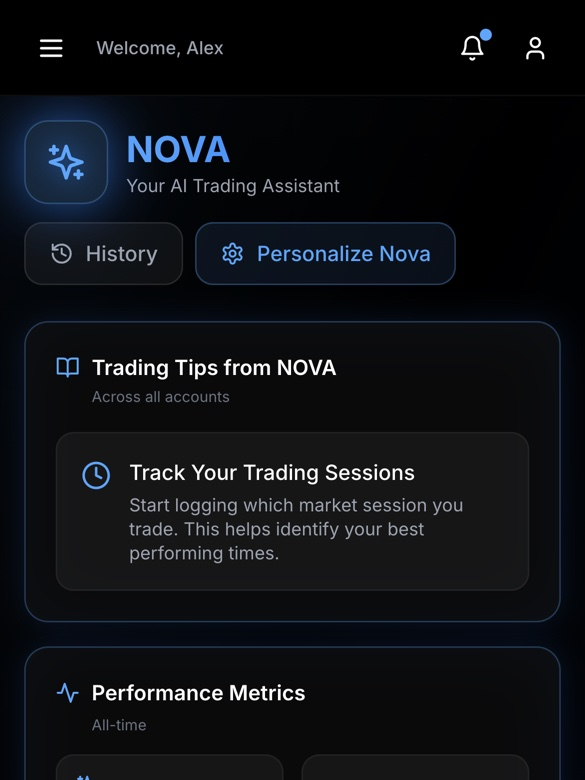
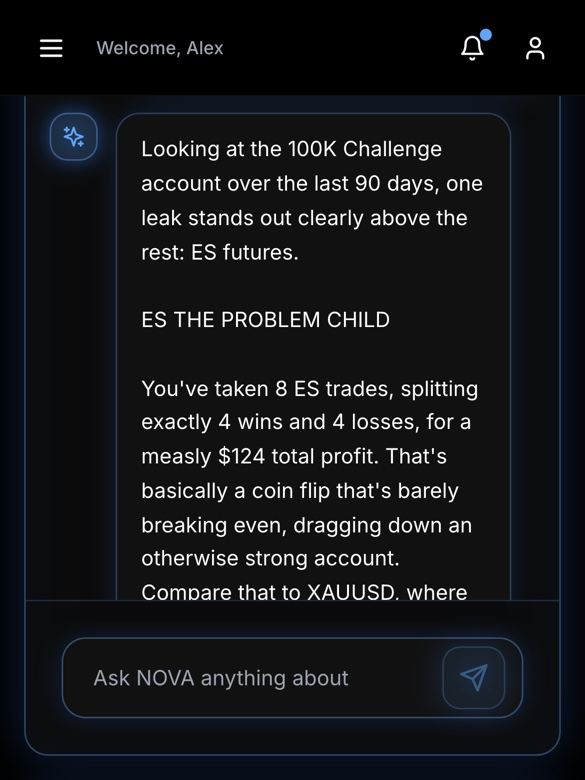
Rebuild the landing page for phones without moving desktop
Most of this page's traffic is a phone. At 390px it was 11,691px - fourteen
screens - and it read as one long column of the same block: heading, text,
picture, heading, text, picture. TradeZella's phone page is longer than ours
(15,069px), so length was never the problem. The difference is that theirs
moves sideways: groups of cards become decks you swipe, and the page stops
being a single column.

Every change is phone-only, through max-sm: variants or by changing only the
base value under an existing sm: one. Proven rather than assumed: the
layout geometry of 45 elements was recorded at 640, 768, 1024 and 1440px
before any change and again after, and page height and every position match
at all four widths.

THE REVIEWS were nine cards stacked into a 1,700px column, more than two full
screens of identical shapes directly before the price. They are a swipe row
now, each card 82% of the screen so the next is always waiting at the edge,
bleeding to the screen edges, with a quiet "Swipe for more" under it. 207px.

NOVA'S SCREENSHOT showed the wrong thing on phones. The crop was anchored on
the word "Nova", which matched the page header, so a phone visitor saw "NOVA,
Your AI Trading Assistant" and a tips panel - never the question or the
answer, which is the only thing that section exists to show. Re-shot on the
answer itself. The first re-shoot was unusable for a better reason: capture
runs had asked the same question so many times that Nova asked whether
[…]

diff --git a/src/pages/Sales.tsx b/src/pages/Sales.tsx
@@ -514,7 +514,7 @@ export default function Sales() {
           to five. It is now a screenshot of the running app. See ProductShot
           for why that trade - sharpness for honesty - is the right way round.
         */}
-        <div className="relative max-w-4xl mx-auto px-5 sm:px-8 pb-20 sm:pb-28">
+        <div className="relative max-w-4xl mx-auto px-5 sm:px-8 pb-12 sm:pb-28">
           <ProductShot
             src="/product/dashboard.jpg"
             alt="The TradeX dashboard: account balance, NOVA Score, win rate, profit factor and a panel showing how closely the trader followed their own plan."
@@ -553,7 +553,7 @@ export default function Sales() {
         rather than accusing: anybody who has done it knows they did not
         decide to do it.
       */}
-      <div className="relative border-t border-white/[0.06] py-16 sm:py-24">
+      <div className="relative border-t border-white/[0.06] py-11 sm:py-24">
         <div className="max-w-3xl mx-auto px-5 sm:px-8">
           <SectionHeader align="center" eyebrow="The real variable" title="The hard part was never the chart">
             Ask anyone who has traded for a year and they can tell you exactly
@@ -570,7 +570,9 @@ export default function Sales() {
             because inventing them would be the same mistake the hero's
             drawn dashboard made, and the shape is the whole argument.
           */}
-          <ol className="mt-12 sm:mt-14 grid grid-cols-1 sm:grid-cols-3 gap-3 sm:gap-4">
+          <ol className="mt-9 sm:mt-14 grid grid-cols-1 sm:grid-cols-3 gap-0 sm:gap-4
+            max-sm:rounded-2xl max-sm:border max-sm:border-white/[0.07] max-sm:bg-brand-surface
+            max-sm:divide-y max-sm:divide-white/[0.07] max-sm:overflow-hidden">
             {[
               {
                 step: 'The trade you planned',
@@ -593,17 +595,17 @@ export default function Sales() {
             ].map((s, n) => (
               <li
                 key={s.step}
-                className="rounded-2xl border border-white/[0.07] bg-brand-surface p-5 sm:p-6 flex flex-col"
+                className="sm:rounded-2xl sm:border sm:border-white/[0.07] sm:bg-brand-surface px-4 py-4 sm:p-6 flex flex-col"
               >
                 <span className="text-[11px] tabular-nums text-gray-600">0{n + 1}</span>
-                <p className="mt-2 text-[15px] sm:text-base font-semibold tracking-[-0.01em] text-white">
+                <p className="mt-1 sm:mt-2 text-[15px] sm:text-base font-semibold tracking-[-0.01em] text-white">
                   {s.step}
                 </p>
-                <p className="mt-2 text-[13px] sm:text-[13.5px] leading-relaxed text-gray-400 flex-1">
+                <p className="mt-1 sm:mt-2 text-[13px] sm:text-[13.5px] leading-relaxed text-gray-400 flex-1">
                   {s.line}
                 </p>
                 {/* Position size, growing. The only thing these three bars say. */}
-                <span className="mt-5 block h-1 rounded-full bg-white/[0.06] overflow-hidden">
+                <span className="mt-3 sm:mt-5 block h-1 rounded-full bg-white/[0.06] overflow-hidden">
                   <span className={`block h-full rounded-full ${s.width} ${s.tone}`} />
                 </span>
                 <span className="mt-2 text-[10px] uppercase tracking-[0.14em] text-gray-600">
@@ -669,7 +671,7 @@ export default function Sales() {
         where it belongs: the pattern is what you are left holding after the
         other two have run.
       */}
-      <div className="relative border-t border-white/[0.06] py-16 sm:py-24">
+      <div className="relative border-t border-white/[0.06] py-11 sm:py-24">
         <div className="max-w-4xl mx-auto px-5 sm:px-8">
           <SectionHeader
             eyebrow="How it works"
@@ -720,7 +722,7 @@ export default function Sales() {
         Every journal shows P&L. This is the one thing no competitor leads
         with, so it gets a section to itself rather than a card in a grid.
       */}
-      <div className="relative border-t border-white/[0.06] py-16 sm:py-24">
+      <div className="relative border-t border-white/[0.06] py-11 sm:py-24">
         <div className="max-w-4xl mx-auto px-5 sm:px-8">
           <SectionHeader
             eyebrow="Psychology"
@@ -754,7 +756,7 @@ export default function Sales() {
         makes Nova worth paying for is that she has read every entry, so the
         demonstration is an answer no generic chatbot could give.
       */}
-      <div className="relative border-t border-white/[0.06] py-16 sm:py-24">
+      <div className="relative border-t border-white/[0.06] py-11 sm:py-24">
         <div className="max-w-5xl mx-auto px-5 sm:px-8">
           {/*
             Two columns, because three sections in a row were the same shape.
@@ -832,7 +834,7 @@ export default function Sales() {
         now, at the end of the product run, which is where somebody who wants
         more of it has just finished looking.
       */}
-      <div className="relative border-t border-white/[0.06] py-16 sm:py-20">
+      <div className="relative border-t border-white/[0.06] py-11 sm:py-20">
         <div className="max-w-5xl mx-auto px-5 sm:px-8">
           <SectionHeader
             eyebrow="Afterwards"
@@ -1057,18 +1059,39 @@ export default function Sales() {
         every single entry is five stars reads worse than one where they are
         the exception.
       */}
-      <div className="relative border-t border-white/[0.06] py-14 sm:py-20">
+      <div className="relative border-t border-white/[0.06] py-11 sm:py-20">
         <div className="max-w-5xl mx-auto px-5 sm:px-8">
           <p className="text-center text-[9.5px] sm:text-[10px] tracking-[0.16em] uppercase text-gray-600">
             From early users
           </p>
 
-          <div className="mt-9 sm:mt-11 columns-1 sm:columns-2 lg:columns-3 gap-4 sm:gap-5 [column-fill:_balance]">
+          {/*
+            ON A PHONE, A ROW YOU SWIPE - NOT NINE CARDS STACKED.
+
+            Stacked, nine quotes were 1,700px of identical cards at 390px wide:
+            more than two full screens of the same shape, sitting directly
+            before the price. TradeZella's phone page runs this exact kind of
+            content as a horizontal deck, and so does every review section
+            built for thumbs - the vertical page keeps moving down, and the
+            proof moves sideways underneath it.
+
+            Each card is 82% of the screen so the next one is always visibly
+            waiting at the edge, which is the whole cue to swipe; the row
+            bleeds to the screen edges so it reads as a strip rather than a
+            box. The quotes keep their natural lengths and the row aligns to
+            the top, so a one-liner is not stretched to match a paragraph.
+
+            From sm up this is untouched: the same three-column masonry.
+          */}
+          <div className="mt-7 sm:mt-11 -mx-5 px-5 sm:mx-0 sm:px-0
+            flex items-start gap-3 overflow-x-auto snap-x snap-mandatory scroll-px-5
+            [scrollbar-width:none] [&::-webkit-scrollbar]:hidden
+            sm:block sm:overflow-visible sm:columns-2 lg:columns-3 sm:gap-5 [column-fill:_balance]">
             {TESTIMONIALS.map((t) => (
               <figure
                 key={t.name}
-                className="mb-4 sm:mb-5 break-inside-avoid rounded-2xl border border-white/[0.07]
-                  bg-gradient-to-b from-white/[0.03] to-transparent p-5"
+                className="w-[82%] flex-shrink-0 snap-start sm:w-auto sm:mb-5 break-inside-avoid rounded-2xl
+                  border border-white/[0.07] bg-gradient-to-b from-white/[0.03] to-transparent p-5"
               >
                 {t.stars && (
                   <div className="flex gap-0.5 mb-3" aria-label="Five out of five">
@@ -1086,6 +1109,9 @@ export default function Sales() {
               </figure>
             ))}
           </div>
+          <p className="sm:hidden mt-4 text-center text-[11.5px] text-gray-600">
+            Swipe for more &rarr;
+          </p>
         </div>
       </div>
 
@@ -1105,7 +1131,7 @@ export default function Sales() {
         The gold-* classes this section used were undefined and rendered as
         nothing, which is why the old feature headings had no colour at all.
       */}
-      <div className="relative border-t border-white/[0.06] py-16 sm:py-24">
+      <div className="relative border-t border-white/[0.06] py-11 sm:py-24">
         <div className="max-w-xl mx-auto px-5 sm:px-8">
           <SectionHeader
             eyebrow="Pricing"
@@ -1191,30 +1217,43 @@ export default function Sales() {
             identical on every plan, so saying it three times inside the
             columns made the columns look different when they are not.
           */}
-          <div className="grid gap-3 sm:grid-cols-3 sm:gap-4">
+          {/*
+            On a phone the tiers are rows, not cards.
+
+            Three cards stacked at 390px were ~560px for what is a three-line
+            comparison - one number differs between them. As rows, the name and
+            the account count sit on the left and the price on the right, which
+            is the shape a phone reader scans a price list in, and the whole
+            block fits on one screen with the trial timeline under it. From sm
+            up these are the three centred cards, unchanged.
+          */}
+          <div className="grid gap-2.5 sm:grid-cols-3 sm:gap-4">
             {TIERS.map((tier) => (
               <div
                 key={tier.name}
-                className={`relative rounded-2xl border p-5 text-center ${
+                className={`relative rounded-2xl border px-4 py-3.5 sm:p-5 sm:text-center
+                  max-sm:grid max-sm:grid-cols-[1fr_auto] max-sm:items-center max-sm:gap-x-4 ${
                   tier.featured
                     ? 'border-brand-blue/40 bg-brand-blue/[0.05]'
                     : 'border-white/[0.07] bg-brand-surface'
                 }`}
               >
                 {tier.featured && (
-                  <span className="absolute -top-2.5 left-1/2 -translate-x-1/2 rounded-full
+                  <span className="absolute -top-2.5 left-4 sm:left-1/2 sm:-translate-x-1/2 rounded-full
                     bg-brand-blue px-2.5 py-0.5 text-[10px] font-medium text-white whitespace-nowrap">
                     Most popular
                   </span>
                 )}
-                <p className="text-[11px] uppercase tracking-[0.14em] text-gray-500">{tier.name}</p>
-                <p className="mt-2.5 flex items-baseline justify-center gap-1">
+                <p className="text-[11px] uppercase tracking-[0.14em] text-gray-500 max-sm:col-start-1 max-sm:row-start-1">{tier.name}</p>
+                <p className="sm:mt-2.5 flex items-baseline sm:justify-center gap-1
+                  max-sm:col-start-2 max-sm:row-start-1 max-sm:row-span-2">
                   <span className="text-[26px] sm:text-[28px] font-semibold tracking-[-0.03em] text-white tabular-nums">
                     {tier.price}
                   </span>
                   <span className="text-[12px] text-gray-500">/mo</span>
                 </p>
-                <p className="mt-3 pt-3 border-t border-white/[0.07] text-[12.5px] text-gray-400">
+                <p className="mt-1 sm:mt-3 sm:pt-3 sm:border-t sm:border-white/[0.07] text-[12.5px] text-gray-400
+                  max-sm:col-start-1 max-sm:row-start-2">
                   {tier.syncedLabel}
                 </p>
               </div>
@@ -1305,7 +1344,7 @@ export default function Sales() {
         JavaScript, it is keyboard accessible for free, and the answer is in
         the DOM for search engines whether or not anyone opens it.
       */}
-      <div className="relative border-t border-white/[0.06] py-16 sm:py-24">
+      <div className="relative border-t border-white/[0.06] py-11 sm:py-24">
         <div className="max-w-2xl mx-auto px-5 sm:px-8">
           <SectionHeader
             eyebrow="Before you ask"
@@ -1342,7 +1381,7 @@ export default function Sales() {
         claimed an outcome for people we cannot point to. The guarantee does
         the same job and is checkable.
       */}
-      <div className="relative border-t border-white/[0.06] py-16 sm:py-24">
+      <div className="relative border-t border-white/[0.06] py-11 sm:py-24">
         <div className="max-w-xl mx-auto px-5 sm:px-8 text-center">
           {/*
             He appears once, here, and not anywhere above.

diff --git a/src/components/shared/CookieConsent.tsx b/src/components/shared/CookieConsent.tsx
@@ -100,7 +100,7 @@ export default function CookieConsent() {
         would bury the Accept button instead and consent has to stay
         answerable.
       */
-      className="fixed inset-x-0 bottom-0 z-50 p-3 sm:p-5"
+      className="fixed inset-x-0 bottom-0 z-50 p-2 sm:p-5"
     >
       {/*
         Slides up and fades in, 320ms on a gentle ease-out. Small on purpose:
@@ -112,24 +112,32 @@ export default function CookieConsent() {
       */}
       <div
         className={`mx-auto max-w-3xl rounded-2xl border border-white/10 bg-brand-surface/95
-          backdrop-blur-md p-4 sm:p-5 shadow-2xl
+          backdrop-blur-md px-3.5 py-3 sm:p-5 shadow-2xl
           transition-all duration-[320ms] ease-out
           motion-reduce:transition-none motion-reduce:transform-none motion-reduce:opacity-100
           ${shown ? 'opacity-100 translate-y-0' : 'opacity-0 translate-y-6'}`}
       >
         <div className="sm:flex sm:items-center sm:gap-6">
-          <p className="text-[13px] sm:text-sm text-gray-400 leading-relaxed">
+          {/*
+            Shorter on a phone, not weaker. At 390px the banner was ~170px tall
+            and sat across the hero's product screenshot - the first image
+            every visitor from Instagram sees. The disclosure, the "nothing runs
+            until you say yes" and the privacy link all stay; only the clause
+            about changing your mind later is desktop-only, and the policy it
+            links to says the same. Both buttons keep full-size tap targets.
+          */}
+          <p className="text-[12.5px] sm:text-sm text-gray-400 leading-relaxed">
             We use cookies to understand how the site is used. Nothing runs until
-            you say yes, and you can change your mind any time.{' '}
+            you say yes<span className="max-sm:hidden">, and you can change your mind any time</span>.{' '}
             <Link to="/privacy" className="text-gray-300 underline underline-offset-2 hover:text-white">
               Privacy Policy
             </Link>
           </p>
-          <div className="mt-4 sm:mt-0 flex gap-2.5 sm:flex-shrink-0">
+          <div className="mt-2.5 sm:mt-0 flex gap-2.5 sm:flex-shrink-0">
             <button
               type="button"
               onClick={decline}
-              className="flex-1 sm:flex-none px-5 py-2.5 rounded-full border border-white/15
+              className="flex-1 sm:flex-none px-5 py-2 sm:py-2.5 rounded-full border border-white/15
                 text-[13px] font-medium text-gray-300 hover:bg-white/5 transition-colors
                 focus-visible:outline-none focus-visible:ring-1 focus-visible:ring-white/40"
             >
@@ -138,7 +146,7 @@ export default function CookieConsent() {
             <button
               type="button"
               onClick={accept}
-              className="flex-1 sm:flex-none px-5 py-2.5 rounded-full bg-white text-black
+              className="flex-1 sm:flex-none px-5 py-2 sm:py-2.5 rounded-full bg-white text-black
                 text-[13px] font-medium hover:bg-gray-200 transition-colors
                 focus-visible:outline-none focus-visible:ring-1 focus-visible:ring-white/40"
             >

diff --git a/src/components/sales/SwipeDeck.tsx b/src/components/sales/SwipeDeck.tsx
@@ -50,12 +50,56 @@ export default function SwipeDeck({
     Equal height stops the rail and everything below it jumping as panels
     change. Turn it off when the panels are images of different aspect
     ratios, where matching heights leaves one of them letterboxed.
+
+    Never applied below sm. On a phone the shorter panel was stretched to the
+    taller one's height, and at 390px wide that meant a card that was mostly
+    empty space around three rows of dots. The track still takes the tallest
+    panel's height either way, so the rail underneath does not jump - all
+    that changes is whether the slack sits inside the card or below it, and
+    below it is the version that does not look unfinished.
   */
   equalHeight?: boolean;
 }) {
   const [index, setIndex] = useState(0);
   const trackRef = useRef<HTMLDivElement | null>(null);
   const animatingTo = useRef<number | null>(null);
+
+  /*
+    ON A PHONE, THE TRACK IS AS TALL AS THE PANEL YOU ARE LOOKING AT.
+
+    A flex row is as tall as its tallest child, so a short panel next to a
+    tall one sat above a band of empty space - ~180px of nothing between the
+    psychology card and the rail at 390px, which on a phone is a fifth of the
+    screen. Stretching the short card to fill it was worse: a card that was
+    mostly empty.
+
+    So below sm the track's height follows the active panel and animates
+    between them as you swipe. The rail moves with it, smoothly, which is the
+    cost - and on a phone it is a better cost than a fifth of the screen
+    standing empty. From sm up nothing here applies: no inline height, and the
+    layout is exactly what it was.
+  */
+  const [heights, setHeights] = useState<number[]>([]);
+  const [isPhone, setIsPhone] = useState(false);
+
+  useEffect(() => {
+    const mq = window.matchMedia('(max-width: 639px)');
+    const onChange = () => setIsPhone(mq.matches);
+    onChange();
+    mq.addEventListener('change', onChange);
+    return () => mq.removeEventListener('change', onChange);
+  }, []);
+
+  useEffect(() => {
+    const el = trackRef.current;
+    if (!el || typeof ResizeObserver === 'undefined') return;
+    const panels = [...el.querySelectorAll<HTMLElement>('[data-panel]')];
+    const measure = () => setHeights(panels.map((p) => p.offsetHeight));
+    measure();
+    const ro = new ResizeObserver(measure);
+    panels.forEach((p) => ro.observe(p));
+    return () => ro.disconnect();
+  }, [panels.length]);
 
   useEffect(() => {
     const el = trackRef.current;
@@ -106,7 +150,9 @@ export default function SwipeDeck({
         ref={trackRef}
         className={`flex gap-6 overflow-x-auto snap-x snap-mandatory scroll-smooth motion-reduce:scroll-auto
           [scrollbar-width:none] [-ms-overflow-style:none] [&::-webkit-scrollbar]:hidden
+          max-sm:items-start max-sm:overflow-y-hidden max-sm:transition-[height] max-sm:duration-300 max-sm:ease-out
           ${equalHeight ? '' : 'items-start'}`}
+        style={isPhone && heights[index] ? { height: heights[index] } : undefined}
       >
         {spacer}
         {panels.map((p, i) => (
